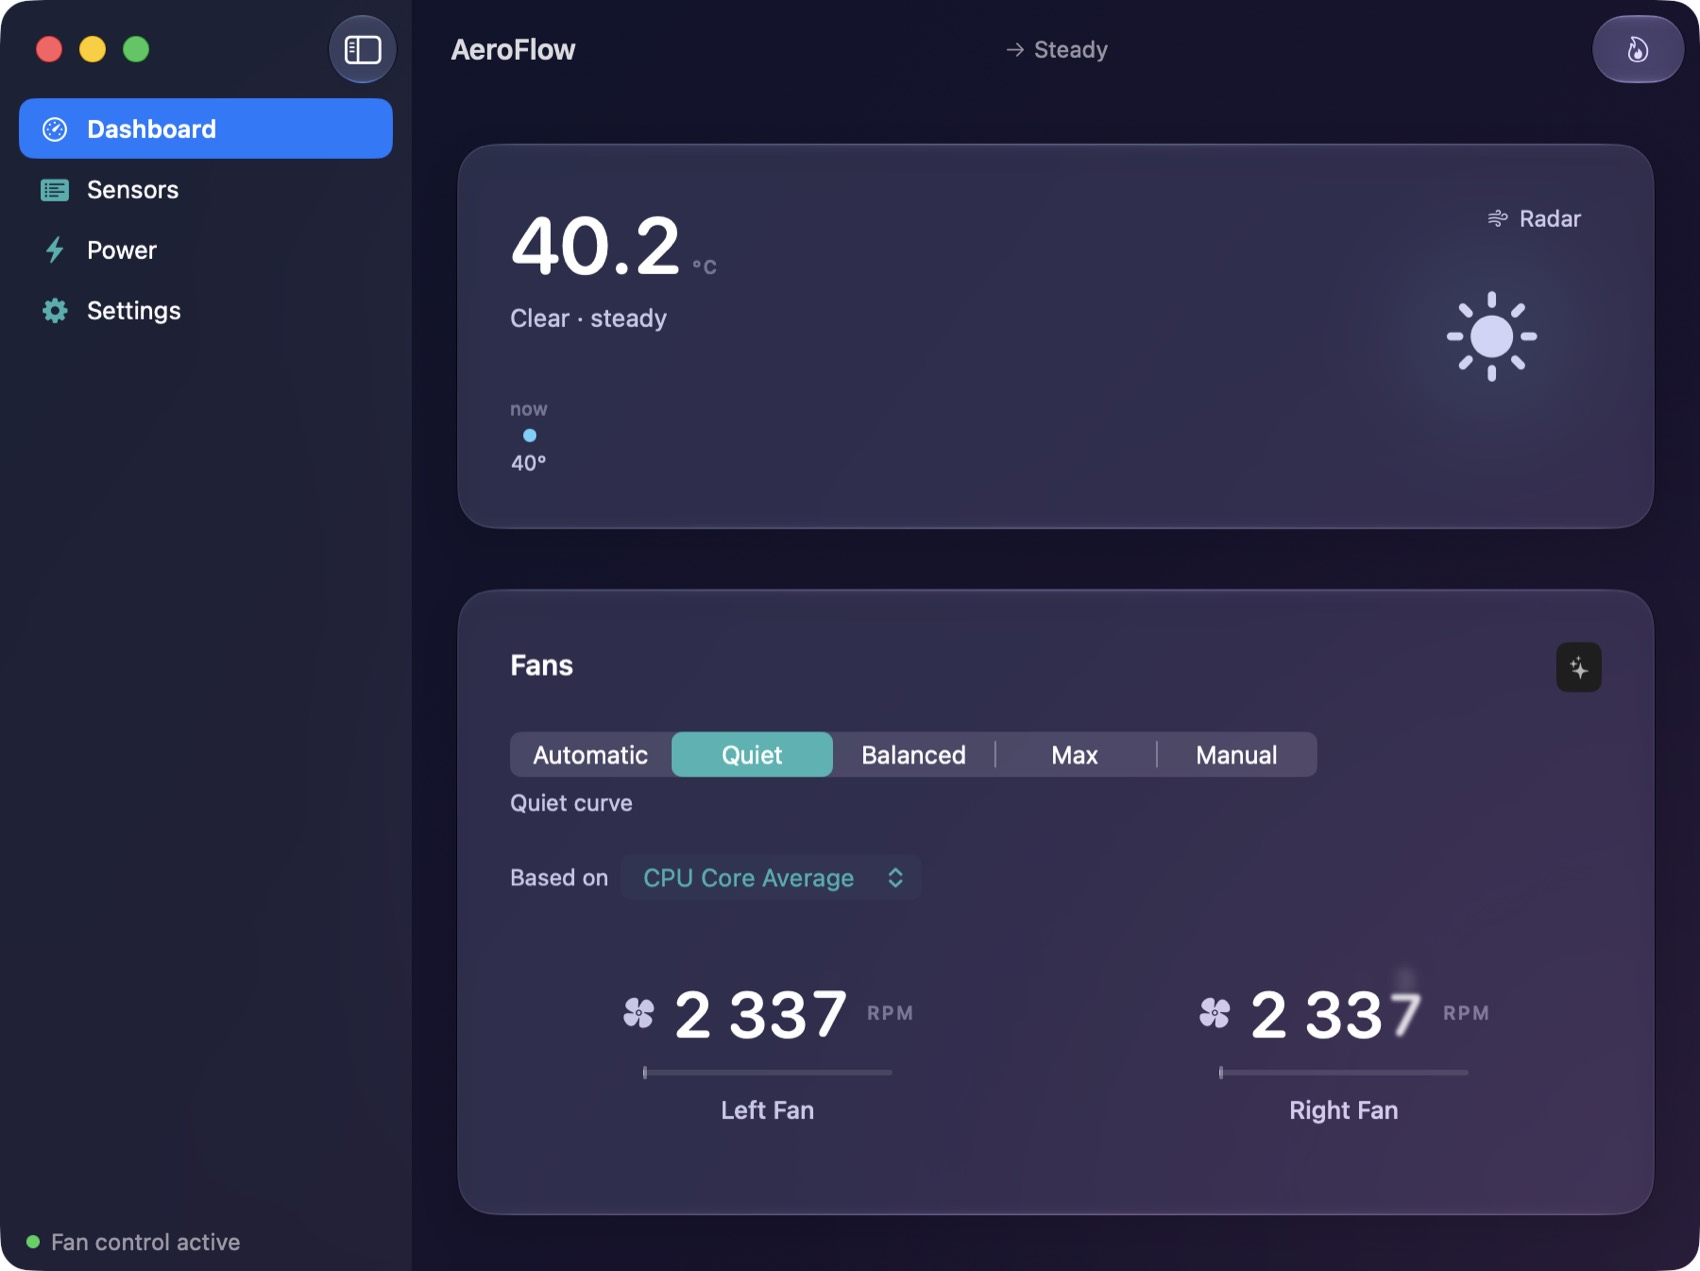
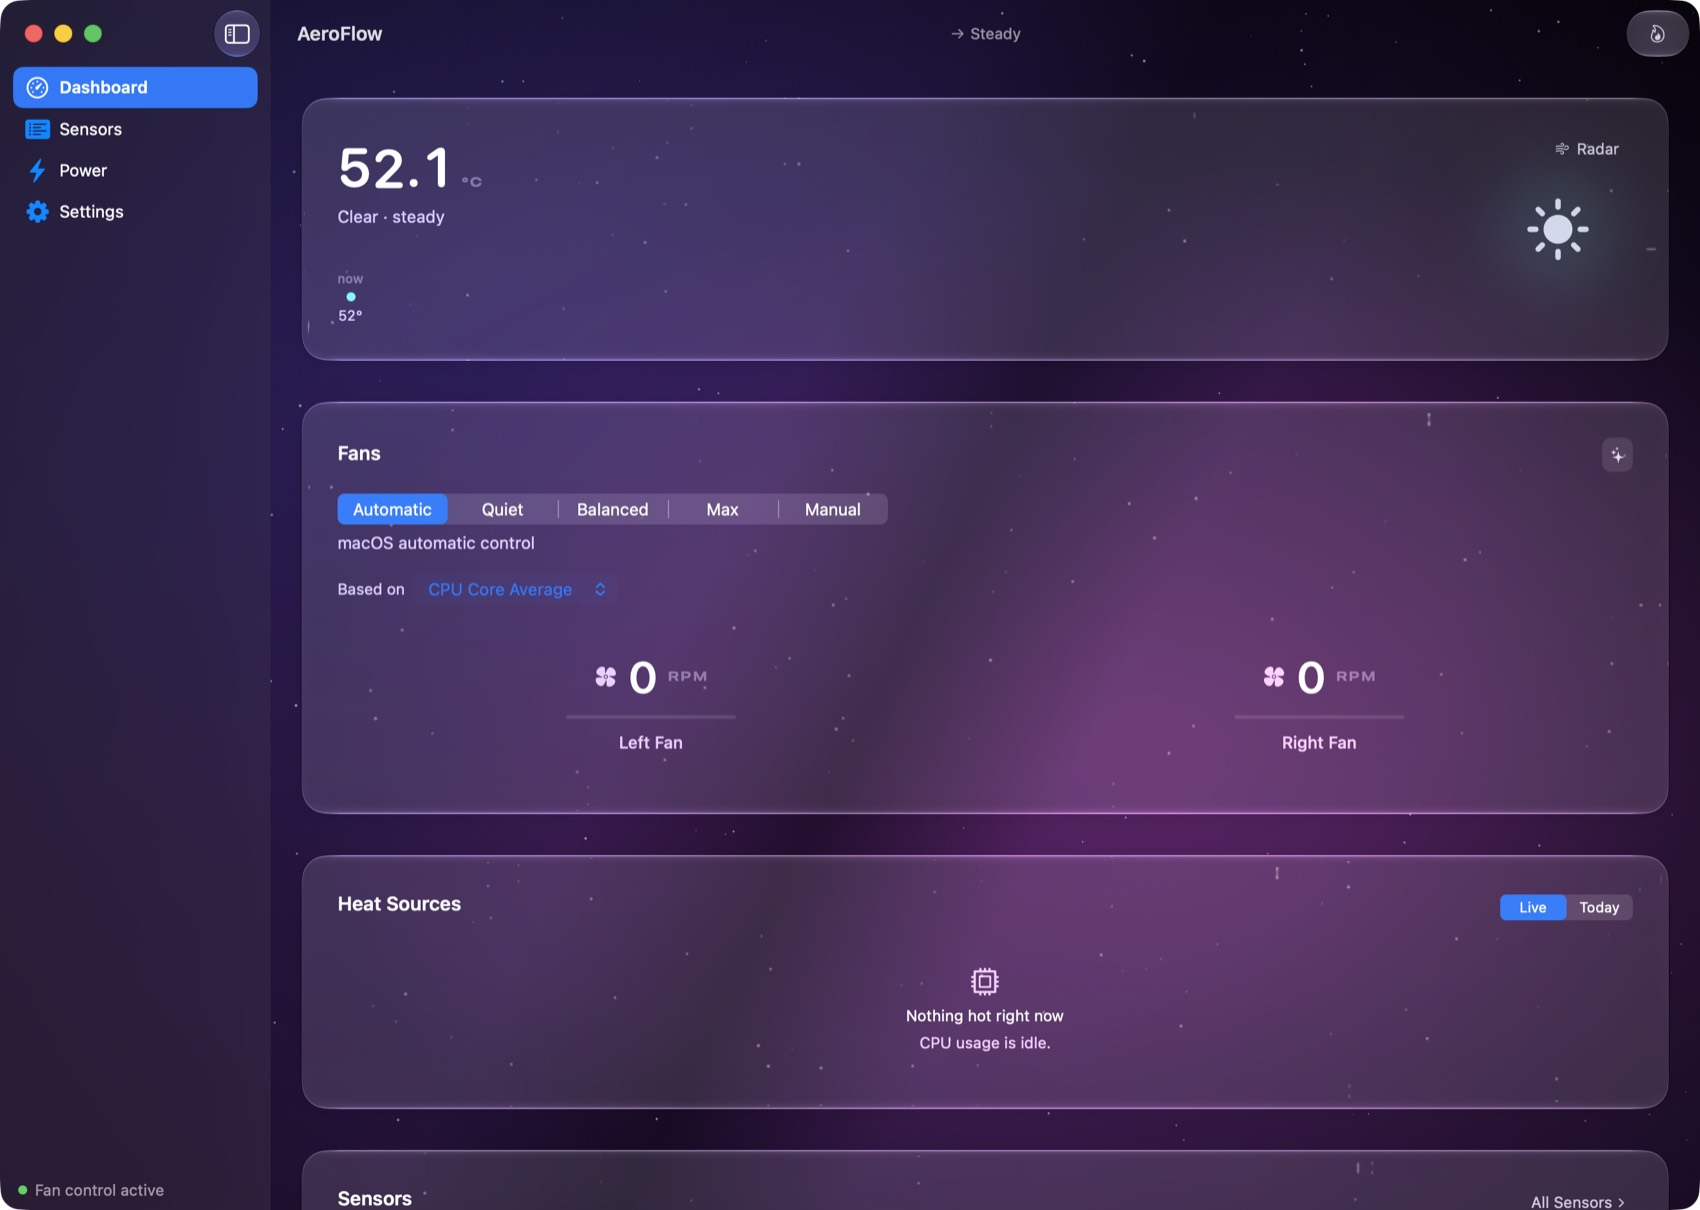
assets: real current dashboard screenshot, captured with the helper running
The hero was the one stale image left — it predated the backdrop scenes and the
content-width cap, and could not be replaced earlier because every fresh capture
showed the 'fan control needs the helper installed' banner. The helper daemon
came back up, so this capture is the current build in its normal state: Nebula
backdrop, glass panels, 'Fan control active' in the footer, no warning.

Declared dimensions updated to the real 1700x1210 so the reserved space matches.

diff --git a/index.html b/index.html
@@ -313,7 +313,7 @@
 
   <figure data-reveal data-delay=".28">
     <div class="shot" data-tilt>
-      <img src="assets/dashboard.jpg" width="1700" height="1271" loading="eager"
+      <img src="assets/dashboard.jpg" width="1700" height="1210" loading="eager"
            alt="The AeroFlow dashboard: a large temperature reading, fan mode controls with live RPM for each fan, heat sources, and a sensor list, on translucent glass panels.">
     </div>
     <figcaption>The dashboard — temperature, fans, and what's driving the heat, in one glance.</figcaption>
